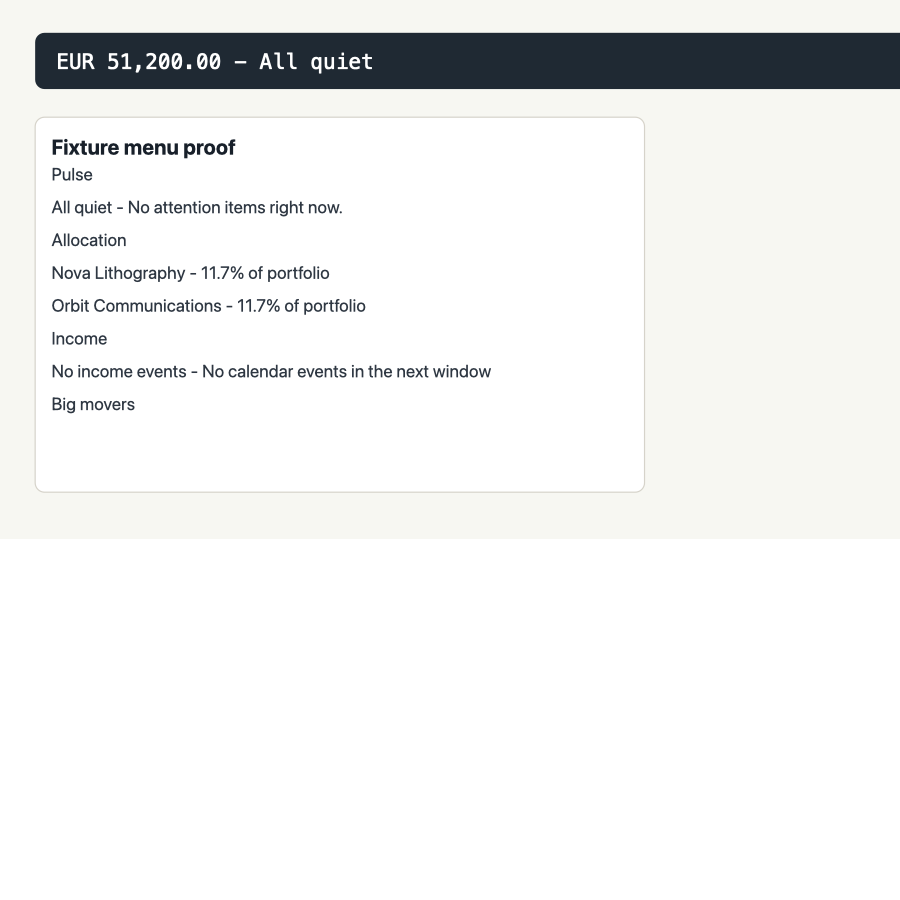
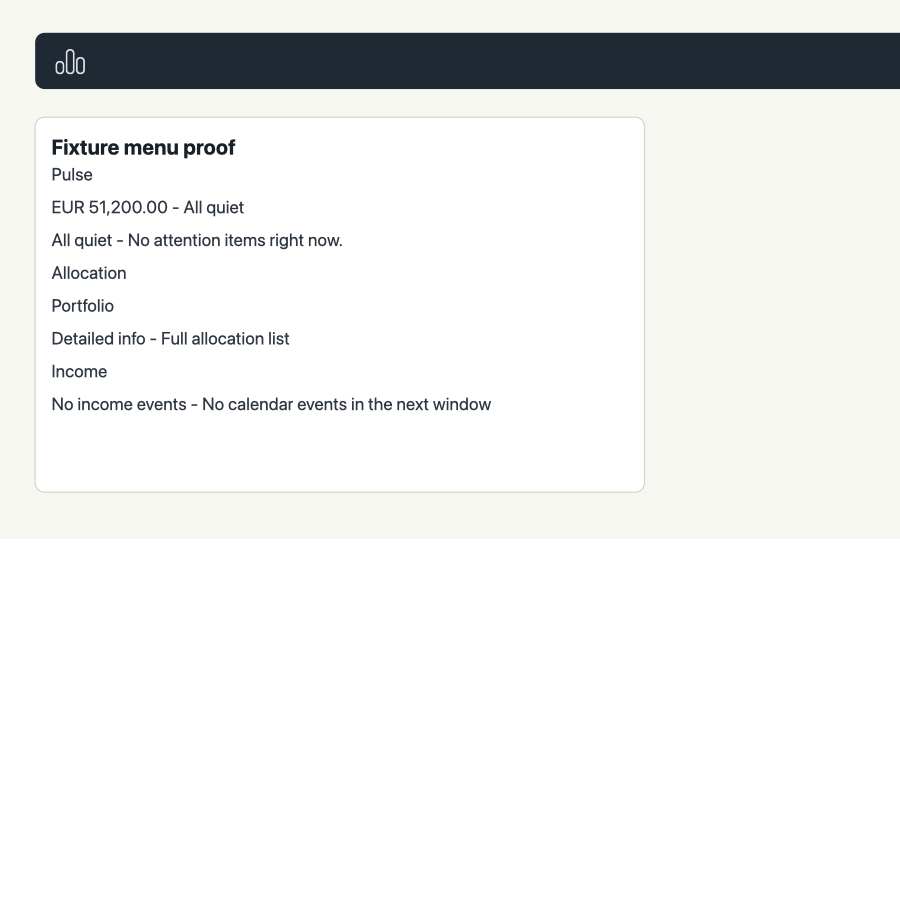
Refresh Data/Prices menu proof (#219)
* docs: refresh Data Prices menu proof

* docs: clarify Data Prices smoke artifacts

diff --git a/Sources/PDTBarSmoke/main.swift b/Sources/PDTBarSmoke/main.swift
@@ -2713,7 +2713,7 @@ private func realUserPulseSmoke(arguments: [String]) throws -> SmokeReport {
         artifacts: artifacts,
         peekaboo: screenshotPeekaboo
     )
-    let freshnessScreenshot = try? captureFreshnessDetailScreenshot(
+    let pricesScreenshot = try? capturePricesDetailScreenshot(
         snapshot: menuSnapshot,
         artifacts: artifacts,
         peekaboo: screenshotPeekaboo
@@ -2731,7 +2731,7 @@ private func realUserPulseSmoke(arguments: [String]) throws -> SmokeReport {
     let priorDetail = expectedScenario.seededPrior.map { "; seeded prior snapshot \($0.asOf)" } ?? ""
     let screenshotDetail = screenshot == nil ? "" : "; captured menu screenshot"
     let allocationScreenshotDetail = allocationScreenshot == nil ? "" : "; captured allocation detail screenshot"
-    let freshnessScreenshotDetail = freshnessScreenshot == nil ? "" : "; captured freshness detail screenshot"
+    let pricesScreenshotDetail = pricesScreenshot == nil ? "" : "; captured Prices detail screenshot"
     let attentionScreenshotDetail = attentionScreenshot == nil ? "" : "; captured attention explanation screenshot"
     let dataHealthScreenshotDetail = dataHealthScreenshot == nil ? "" : "; captured Data health screenshot"
     var reportArtifacts = [artifactPath(evidence)]
@@ -2741,8 +2741,8 @@ private func realUserPulseSmoke(arguments: [String]) throws -> SmokeReport {
     if let allocationScreenshot {
         reportArtifacts.append(artifactPath(allocationScreenshot))
     }
-    if let freshnessScreenshot {
-        reportArtifacts.append(artifactPath(freshnessScreenshot))
+    if let pricesScreenshot {
+        reportArtifacts.append(artifactPath(pricesScreenshot))
     }
     if let attentionScreenshot {
         reportArtifacts.append(artifactPath(attentionScreenshot))
@@ -2753,7 +2753,7 @@ private func realUserPulseSmoke(arguments: [String]) throws -> SmokeReport {
     return SmokeReport(
         name: "real-user-pulse",
         status: SmokeStatus.passed,
-        detail: "launched fixture-mode app with isolated state\(priorDetail), opened menu-bar pulse through \(openedMenu.successfulAttempt ?? "Accessibility"), verified status plus pulse/allocation/income/big-mover/freshness selectors for \(fixture.lastPathComponent)\(screenshotDetail)\(allocationScreenshotDetail)\(freshnessScreenshotDetail)\(attentionScreenshotDetail)\(dataHealthScreenshotDetail)",
+        detail: "launched fixture-mode app with isolated state\(priorDetail), opened menu-bar pulse through \(openedMenu.successfulAttempt ?? "Accessibility"), verified status plus pulse/allocation/income/big-mover/Data selectors for \(fixture.lastPathComponent)\(screenshotDetail)\(allocationScreenshotDetail)\(pricesScreenshotDetail)\(attentionScreenshotDetail)\(dataHealthScreenshotDetail)",
         artifacts: reportArtifacts
     )
 }
@@ -3391,14 +3391,15 @@ private func captureAllocationDetailScreenshot(
     return screenshot
 }
 
-private func captureFreshnessDetailScreenshot(
+private func capturePricesDetailScreenshot(
     snapshot: AccessibilitySnapshot,
     artifacts: URL,
     peekaboo: URL?
 ) throws -> URL? {
-    try captureSubmenuScreenshot(
-        rowIdentifier: "pdtbar.row.freshness.summary",
-        name: "pdtbar-real-user-pulse-freshness-detail",
+    let stablePricesRowIdentifier = "pdtbar.row.freshness.summary"
+    return try captureSubmenuScreenshot(
+        rowIdentifier: stablePricesRowIdentifier,
+        name: "pdtbar-real-user-pulse-prices-detail",
         snapshot: snapshot,
         artifacts: artifacts,
         peekaboo: peekaboo

diff --git a/docs/smoke-checks.md b/docs/smoke-checks.md
@@ -341,6 +341,9 @@ prior into an isolated smoke snapshot directory before launch; cold-start and
 seeded-prior runs do not read or write the user's real app state. If macOS
 Accessibility permission is missing, it exits successfully with `skipped` and
 reports that exact TCC permission to grant.
+When `--peekaboo` is available, successful runs also capture real menu PNGs for
+the main pulse plus allocation, attention, Data/Prices, and Data health
+drill-downs when those submenus are present.
 
 Peekaboo-only local UI proof:
 
@@ -367,5 +370,6 @@ swift run pdtbar-smoke menu-polish-proof --output docs/smoke/menu-polish-proof.s
 ```
 
 This renders sanitized setup, fetching, all-quiet, pressure, and retryable-error
-menu cards from the same descriptors used by the app and AX smoke. It contains
-only fixture/scripted copy and no live portfolio payloads.
+menu cards from the same descriptors used by the app and AX smoke, including the
+quiet Data/Prices overview row. It contains only fixture/scripted copy and no
+live portfolio payloads.
